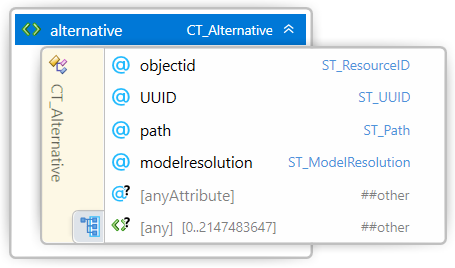
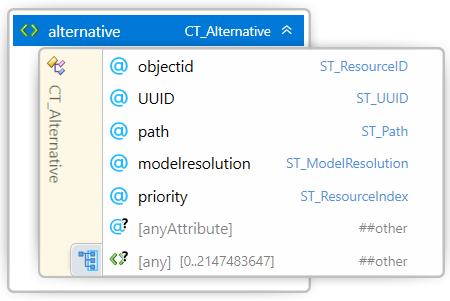
updated alternatives schema and diagrams

diff --git a/3MF Production Extension.md b/3MF Production Extension.md
@@ -230,7 +230,7 @@ Producers MUST include UUID's in all \<object> references to ensure that each ob
 
 The *modelresolution*, defined in the alternative's namespace, indicates the intended use the alternative object model. Valid options are: fullres, lowres, obfuscated.
 
-The *priority* of this object in the sequence of alternatives, is assigned a value of 0, or the lower priority, that might be replaced by other objects defined in the alternatives element.
+The *priority* of this object in the sequence of alternatives is assigned a value of 0, or the lower priority. As a consequence this object might be replaced by other objects defined in the alternatives element.
 
 ### 4.2.1 Component
 
@@ -270,7 +270,7 @@ Element **\<alternative>**
 | UUID | **ST\_UUID** | required | | A globally unique identifier to allow to identify the alternative model. |
 | path | **ST\_Path** | required | | A file path to the alternative model file being referenced. The path is an absolute path from the root of the 3MF container. |
 | modelresolution | **ST\_ModelResolution** |  | fullres  | Indicates the intended use the alternative object model. Valid options are: fullres, lowres, obfuscated. |
-| priority | **ST\_Index_** |  | 0  | Indicates the priority order in case the consumer has access to more than one object of the same model resolution. |
+| priority | **ST\_ResourceIndex** |  | 0  | Indicates the priority order in case the consumer has access to more than one object of the same model resolution. |
 | @anyAttribute | | | | |
 
 The \<alternative> element specifies an alternative representations of a given model. The alternative MAY replace the object content representation, either the content under mesh or components.
@@ -399,7 +399,7 @@ See [the 3MF Core Specification glossary](https://github.com/3MFConsortium/spec_
 		<xs:attribute name="UUID" type="ST_UUID" use="required"/>
 		<xs:attribute name="path" type="ST_Path" use="required"/>
 		<xs:attribute name="modelresolution" type="ST_ModelResolution" default="fullres"/>
-		<xs:attribute name="priority" type="ST_Index" default="0"/>
+		<xs:attribute name="priority" type="ST_ResourceIndex" default="0"/>
 		<xs:anyAttribute namespace="##other" processContents="lax"/>
 	</xs:complexType>
 	
@@ -411,7 +411,7 @@ See [the 3MF Core Specification glossary](https://github.com/3MFConsortium/spec_
 		</xs:restriction>
 	</xs:simpleType>
 
-	<xs:simpleType name="ST_Index">
+	<xs:simpleType name="ST_ResourceIndex">
 		<xs:restriction base="xs:nonNegativeInteger">
 			<xs:maxExclusive value="2147483648"/>
 		</xs:restriction>
